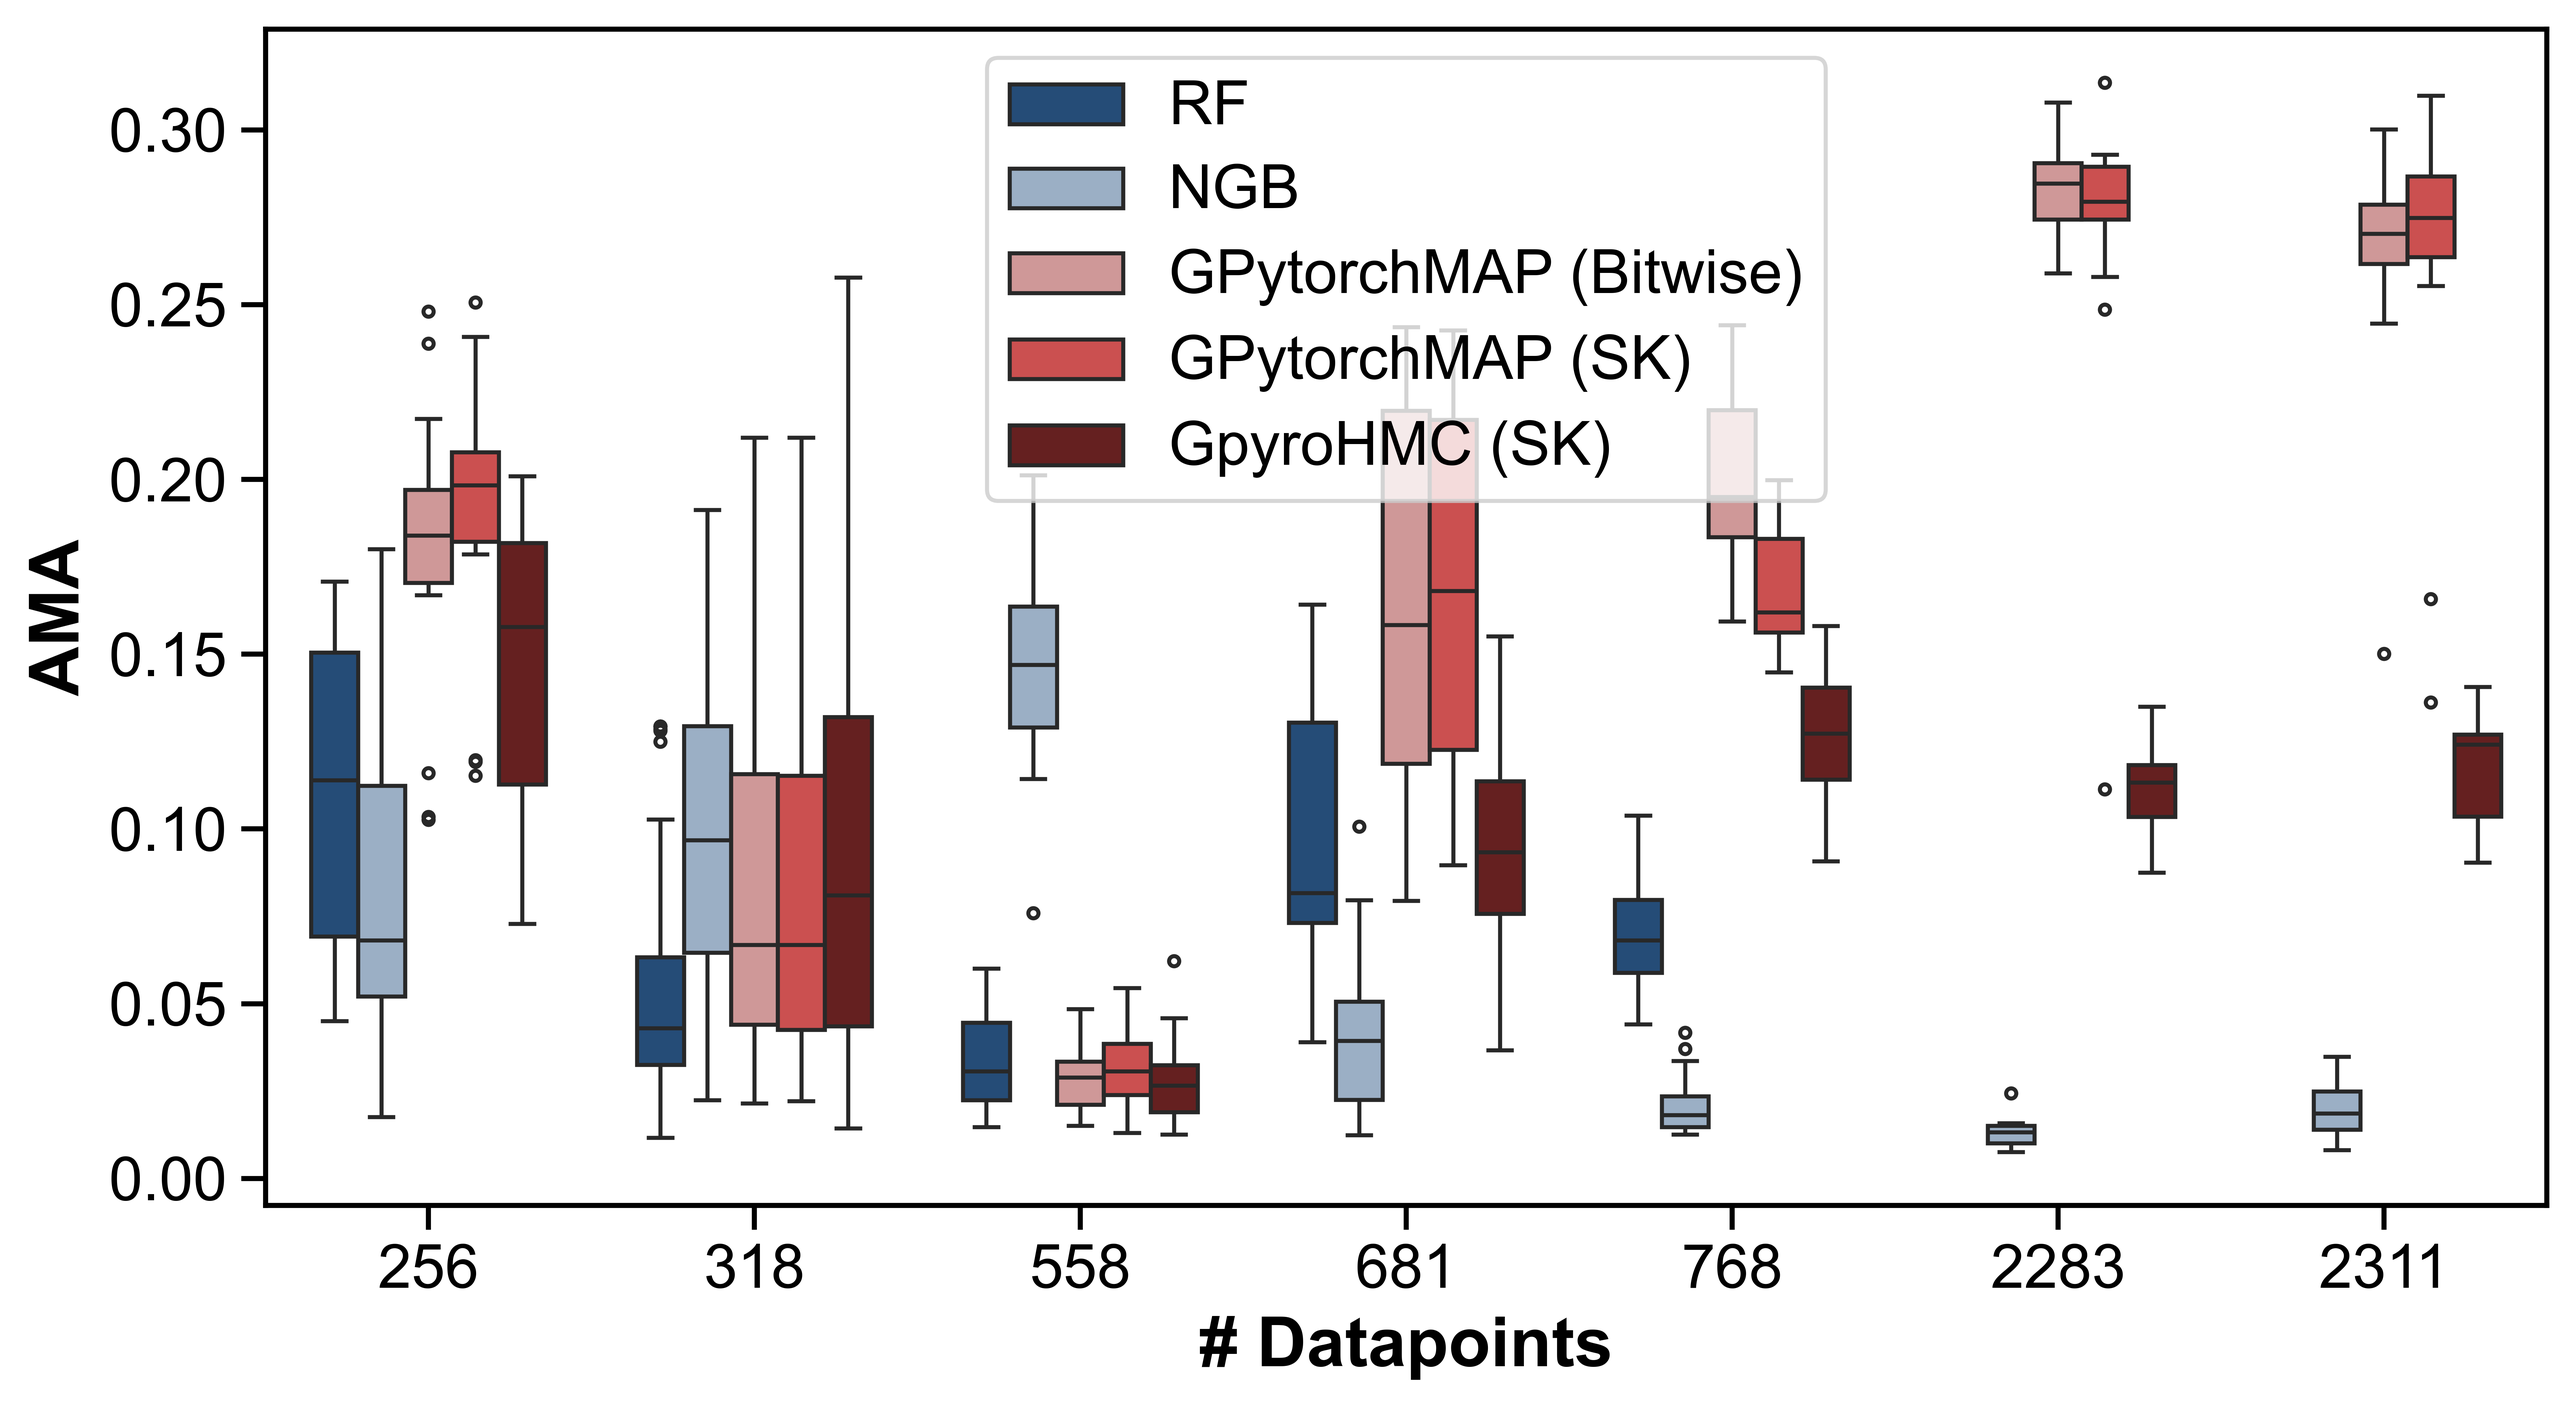
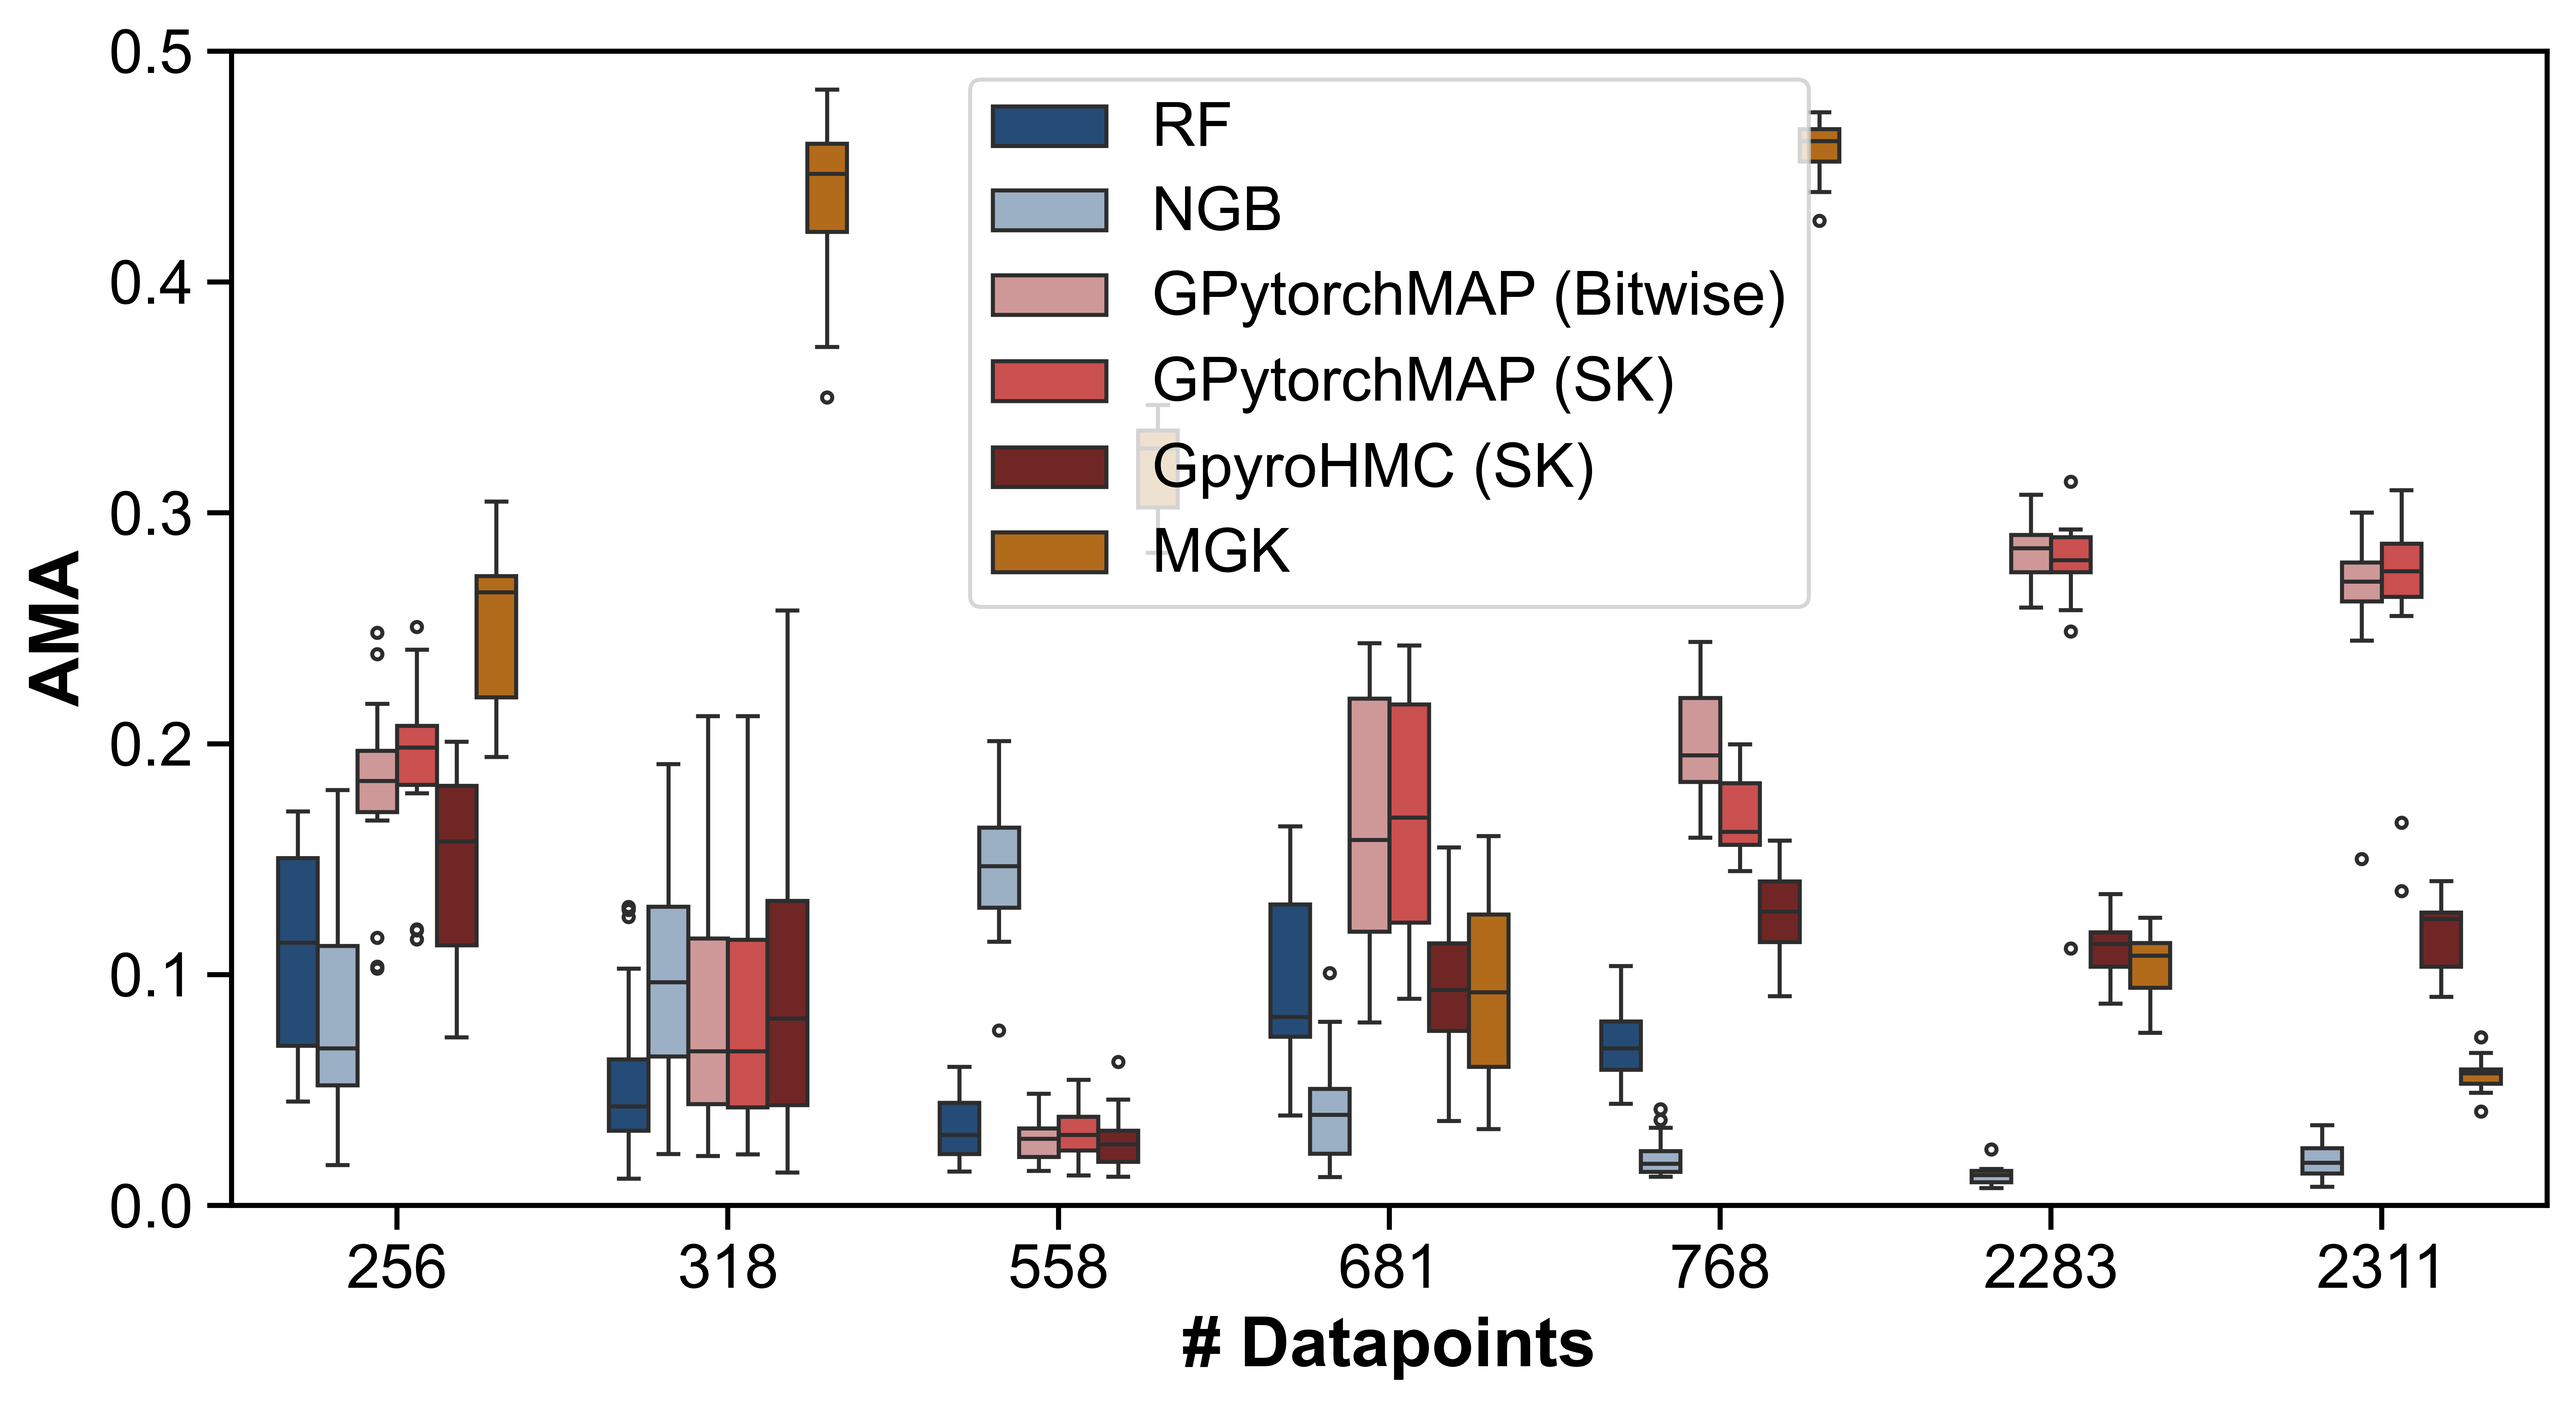
updated

diff --git a/code_python/visualization/visualize_gp.py b/code_python/visualization/visualize_gp.py
@@ -3528,42 +3528,42 @@ if __name__ == "__main__":
     #     file_name="r2_GpytorchMAP_SK_performance_profile.png",
     # )
     #"r2", "nll", "cvpp_ama", "ece"
-    for metric in ["feature_stability"]:
-        tree_fi = "MDI"  # or "SHAP"
-        prof_results = performance_plot_with_ranks(
-            df=result_df,
-            metric=metric,
-            model=["RF", "XGBR", "NGB", "GPytorchMAP", "GpyroHMC"],
-            kernel_triples=[
-                ("Matern32", "Matern32", "product"),
-                ("TanimotoMatern32", "Matern32", "product"),
-                # ("Graph", "Matern32", "product"),
-            ],
-            tree_feature_importance=tree_fi,
-            legend_ncols=2,
-            fontsize=17,
-            figsize=(7, 5),
-            show=True,
-            show_error_band=False,
-            save_dir= HERE / "result_analysis",
-            file_name=f"{metric}_{tree_fi}_lengthscale_model_performance_profile_curve_comparison.png",
-        )
-        plot_model_profile_comparison(
-            prof_results=prof_results,
-            model=["RF", "XGBR", "NGB", "GPytorchMAP", "GpyroHMC"],
-            kernel_triples=[
-                ("Matern32", "Matern32", "product"),
-                ("TanimotoMatern32", "Matern32", "product"),
-                # ("Graph", "Matern32", "product"),
-            ],
-            metric=metric,
-            tree_feature_importance=tree_fi,
-            y_label=f"Profile AUC of importance stability",
-            fontsize=17,
-            figsize=(5, 5),
-            save_dir=HERE / "result_analysis",
-            file_name=f"{metric}_{tree_fi}_lengthscale_model_profile_comparison.png",
-        )
+    # for metric in ["feature_stability"]:
+    #     tree_fi = "MDI"  # or "SHAP"
+    #     prof_results = performance_plot_with_ranks(
+    #         df=result_df,
+    #         metric=metric,
+    #         model=["RF", "XGBR", "NGB", "GPytorchMAP", "GpyroHMC"],
+    #         kernel_triples=[
+    #             ("Matern32", "Matern32", "product"),
+    #             ("TanimotoMatern32", "Matern32", "product"),
+    #             # ("Graph", "Matern32", "product"),
+    #         ],
+    #         tree_feature_importance=tree_fi,
+    #         legend_ncols=2,
+    #         fontsize=17,
+    #         figsize=(7, 5),
+    #         show=True,
+    #         show_error_band=False,
+    #         save_dir= HERE / "result_analysis",
+    #         file_name=f"{metric}_{tree_fi}_lengthscale_model_performance_profile_curve_comparison.png",
+    #     )
+    #     plot_model_profile_comparison(
+    #         prof_results=prof_results,
+    #         model=["RF", "XGBR", "NGB", "GPytorchMAP", "GpyroHMC"],
+    #         kernel_triples=[
+    #             ("Matern32", "Matern32", "product"),
+    #             ("TanimotoMatern32", "Matern32", "product"),
+    #             # ("Graph", "Matern32", "product"),
+    #         ],
+    #         metric=metric,
+    #         tree_feature_importance=tree_fi,
+    #         y_label=f"Profile AUC of importance stability",
+    #         fontsize=17,
+    #         figsize=(5, 5),
+    #         save_dir=HERE / "result_analysis",
+    #         file_name=f"{metric}_{tree_fi}_lengthscale_model_profile_comparison.png",
+    #     )
 
     # plot_profile_auc_heatmap(
     #     auc_df=prof_results,
@@ -3637,41 +3637,41 @@ if __name__ == "__main__":
     # file_name="r2_GPytorchMAP_bitwise_hybridization_profile_comparison_pure.png",
     # )
 
-    # plot_model_performance_vs_data_number(
-    #     df=result_df,
-    #     metric="r2",
-    #     model=["RF", "XGBR", "NGB", "GPytorchMAP", "GpyroHMC", "MGK"],
-    #     kernel_triples=[
-    #         ("Matern32", "Matern32", "product"),
-    #         ("TanimotoMatern32", "Matern32", "product"),
-    #         ("Graph", "Matern32", "product"),
-    #     ],
-    #     y_label="R²",
-    #     x_label="# Datapoints",
-    #     fontsize=17,
-    #     y_lim=(0, 1.05),
-    #     # log_y=True,
-    #     figsize=(9, 5),
-    #     show=True,
-    #     save_dir=HERE / "result_analysis",
-    #     file_name="r2_model_performance_vs_data_number.png",
-    # )
-
-
-    plot_model_feature_importance_stability_comparison(
-        result_df,
-        model=["RF", "XGBR", "NGB", "GPytorchMAP", "GpyroHMC"],
-        tree_feature_importance="MDI",
+    plot_model_performance_vs_data_number(
+        df=result_df,
+        metric="cvpp_ama",
+        model=["RF", "XGBR", "NGB", "GPytorchMAP", "GpyroHMC", "MGK"],
         kernel_triples=[
             ("Matern32", "Matern32", "product"),
             ("TanimotoMatern32", "Matern32", "product"),
-            ],
-        y_label="Stability (Kendall's W)",
+            ("Graph", "Matern32", "product"),
+        ],
+        y_label="AMA",
+        x_label="# Datapoints",
         fontsize=17,
-        show=True,
-        y_lim=(0,1.05),
-        figsize=(6, 5),
+        y_lim=(0, .5),
         # log_y=True,
+        figsize=(9, 5),
+        show=True,
         save_dir=HERE / "result_analysis",
-        file_name="feature_importance_stability_lengthscale_MDI_comparison.png",
+        file_name="cvpp_ama_model_performance_vs_data_number.png",
     )
+
+
+    # plot_model_feature_importance_stability_comparison(
+    #     result_df,
+    #     model=["RF", "XGBR", "NGB", "GPytorchMAP", "GpyroHMC"],
+    #     tree_feature_importance="MDI",
+    #     kernel_triples=[
+    #         ("Matern32", "Matern32", "product"),
+    #         ("TanimotoMatern32", "Matern32", "product"),
+    #         ],
+    #     y_label="Stability (Kendall's W)",
+    #     fontsize=17,
+    #     show=True,
+    #     y_lim=(0,1.05),
+    #     figsize=(6, 5),
+    #     # log_y=True,
+    #     save_dir=HERE / "result_analysis",
+    #     file_name="feature_importance_stability_lengthscale_MDI_comparison.png",
+    # )
